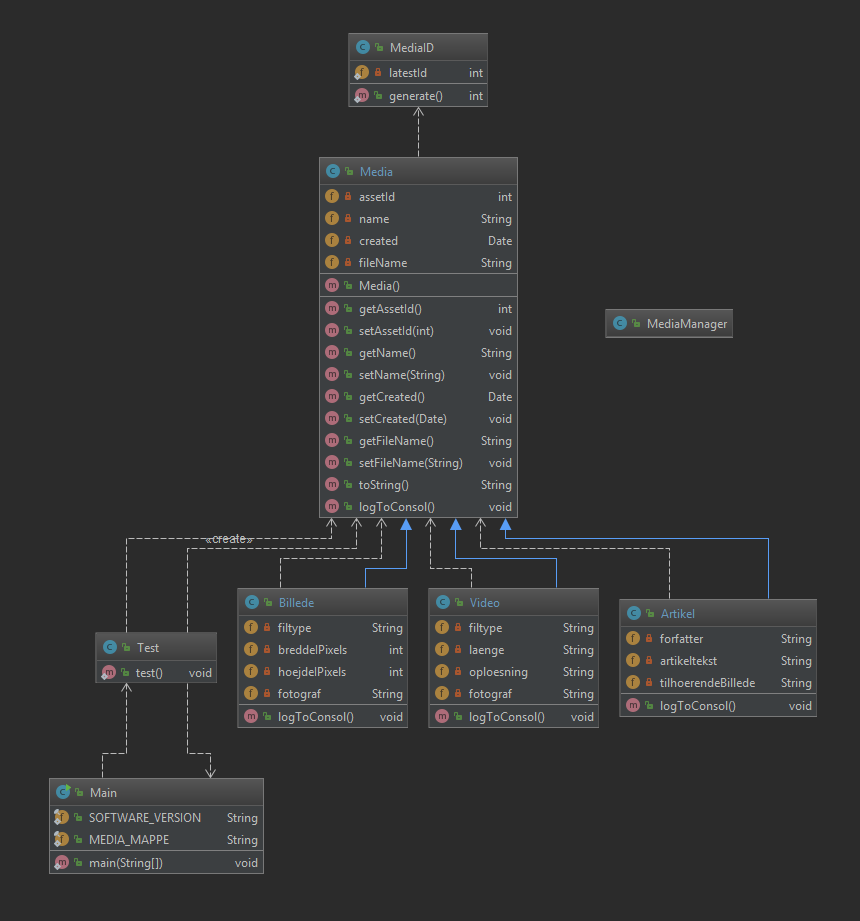
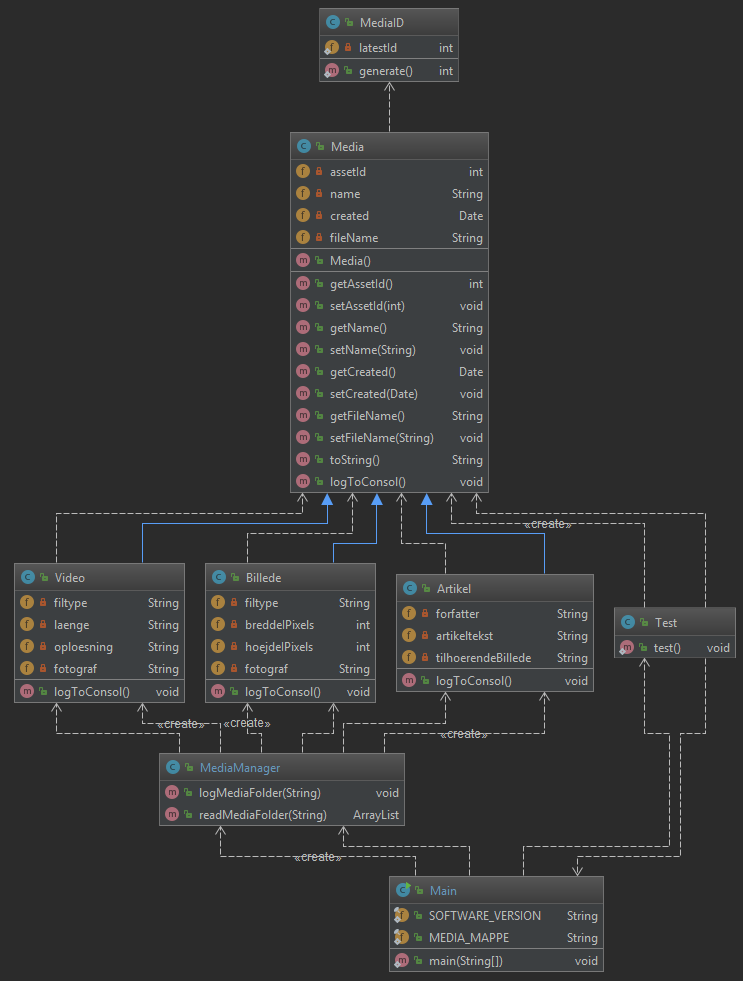
Opgave 6

Changed region(s): [[0.0, 0.0, 0.9906, 1.0], [0.681, 0.3344, 0.8668, 0.3648]]

diff --git a/src/MediaManager.java b/src/MediaManager.java
@@ -6,4 +6,35 @@ public class MediaManager {
 
     // Her kommer din kode
 
+    public void logMediaFolder(String folderNavn) {
+        File file = new File(folderNavn);
+        File[] list = file.listFiles();
+
+        for (File e: list) {
+            System.out.println(e.getName());
+        }
+    }
+
+    public ArrayList readMediaFolder(String folderNavn) {
+        File file = new File(folderNavn);
+        File[] list = file.listFiles();
+        ArrayList<String> stringList = new ArrayList<>();
+
+        for (File e: list) {
+            stringList.add(e.getName());
+
+            String filtype = e.getName().substring(e.getName().lastIndexOf('.') + 1);
+
+            if (filtype.equals("mp4") || filtype.equals("m4v") || filtype.equals("mov")) {
+                Video video = new Video();
+            } else if (filtype.equals("jpg") || filtype.equals("png") || filtype.equals("gif")) {
+                Billede billede = new Billede();
+            } else if (filtype.equals("txt")) {
+                Artikel artikel = new Artikel();
+            }
+        }
+
+        return stringList;
+    }
+
 }

diff --git a/src/Main.java b/src/Main.java
@@ -1,3 +1,6 @@
+import java.io.File;
+import java.util.ArrayList;
+
 public class Main {
 
     // Public static named constants
@@ -12,6 +15,14 @@ public class Main {
         // Creates an instance of the Test class
         Test.test();
 
+        MediaManager mediaManager = new MediaManager();
+
+        mediaManager.logMediaFolder("media");
+
+        ArrayList<String> list = mediaManager.readMediaFolder("media");
+        for (String e: list) {
+            System.out.println(e);
+        }
     }
 }
 
